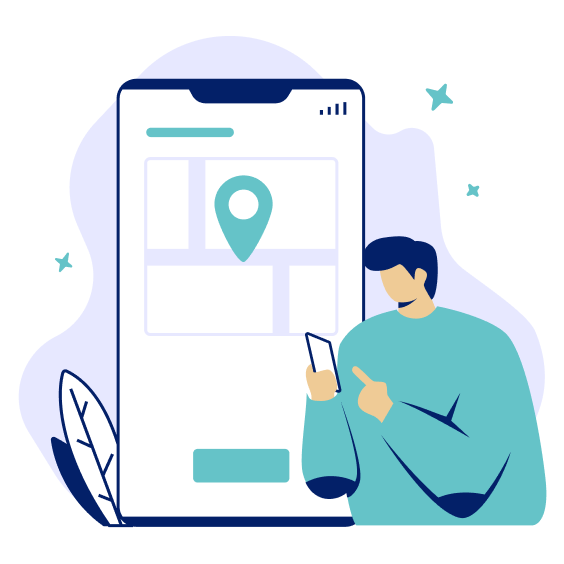
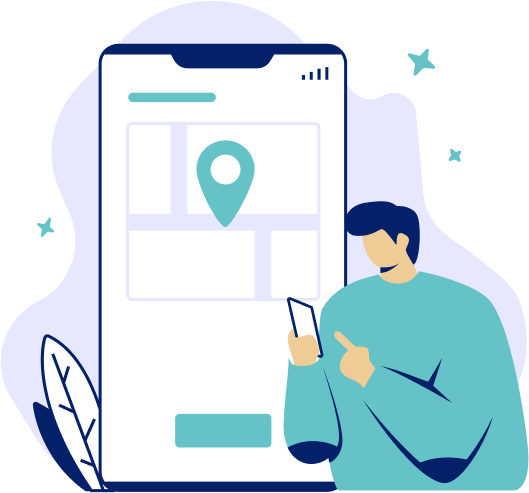
style: slicing login page

diff --git a/src/pages/Login.tsx b/src/pages/Login.tsx
@@ -1,0 +1,124 @@
+import imageLogin from '../assets/login.png';
+import NavLog from '../assets/loginreg.png';
+import { Input } from '../components/Input';
+import Layout from '../components/Layout';
+
+import { Link } from 'react-router-dom';
+import { useFormik } from 'formik';
+import * as Yup from 'yup';
+
+const schema = Yup.object().shape({
+  email: Yup.string().email('please enter a valid email').required('Required'),
+  password: Yup.string().required('Required'),
+});
+
+const Login = () => {
+  const { values, errors, handleBlur, handleChange, touched, handleSubmit } =
+    useFormik({
+      initialValues: {
+        email: '',
+        password: '',
+      },
+      validationSchema: schema,
+      onSubmit: (values) => {
+        console.log(values);
+      },
+    });
+
+  return (
+    <Layout
+      chose="section"
+      addClass="h-screen bg-gradient-to-br from-neutral to-primary flex justify-center items-center"
+    >
+      <div className="w-4/5 h-5/6 bg-base-100 rounded-xl flex ">
+        <form
+          onSubmit={handleSubmit}
+          className="w-2/6 h-full flex flex-col justify-center p-10 gap-2"
+        >
+          <p className="text-4xl font-semibold">Log in.</p>
+          <p className="font-light text-sm">
+            Log in with our data that your entered during registration
+          </p>
+          <div className="w-full">
+            <label
+              htmlFor="email"
+              className="label"
+            >
+              <p className="label-text">Email: </p>
+            </label>
+            <Input
+              id="email"
+              name="email"
+              label="type your email here"
+              type="email"
+              value={values.email}
+              onChange={handleChange}
+              onBlur={handleBlur}
+              error={errors.email}
+              touch={touched.email}
+            />
+          </div>
+          <div className="w-full">
+            <label
+              htmlFor="password"
+              className="label"
+            >
+              <p className="label-text">Password: </p>
+            </label>
+            <Input
+              id="password"
+              name="password"
+              label="type your password here"
+              type="password"
+              value={values.password}
+              onChange={handleChange}
+              onBlur={handleBlur}
+              error={errors.password}
+              touch={touched.password}
+            />
+          </div>
+
+          <button
+            id="login"
+            className="btn btn-primary mt-3"
+            type="submit"
+          >
+            LOGIN
+          </button>
+          <p className="text-sm">
+            Don't have an account?{' '}
+            <Link
+              className="font-medium"
+              to={'/register'}
+            >
+              Register here
+            </Link>
+          </p>
+        </form>
+        <div className="w-4/6 h-full bg-base-300 p-10 rounded-r-xl flex flex-col justify-between items-center">
+          <div className="h-5/6">
+            <div className=" h-1/6 text-center w-full">
+              <p className="text-xl font-light">Nice To Meet You Again</p>
+              <p className="text-4xl font-semibold">WELCOME BACK!</p>
+            </div>
+            <div className="h-5/6 w-full flex justify-center">
+              <img
+                className="h-full"
+                src={imageLogin}
+                alt=""
+              />
+            </div>
+          </div>
+
+          <img
+            className="h-7"
+            src={NavLog}
+            alt=""
+          />
+        </div>
+      </div>
+    </Layout>
+  );
+};
+
+export default Login;

diff --git a/src/pages/NotFound.tsx b/src/pages/NotFound.tsx
@@ -1,0 +1,39 @@
+import Layout from '../components/Layout';
+import Kabel from '../assets/notFound.png';
+import { Link } from 'react-router-dom';
+
+const NotFound = () => {
+  return (
+    <Layout
+      chose="section"
+      addClass="h-screen bg-gradient-to-br from-neutral to-primary flex justify-center items-center"
+    >
+      <div className="w-4/5 h-5/6 bg-base-100 rounded-xl flex px-10">
+        <div className="h-full w-2/6">
+          <img
+            className="h-full"
+            src={Kabel}
+            alt=""
+          />
+        </div>
+        <div className="h-full w-4/6 flex flex-col justify-center items-center gap-4">
+          <p className="font-bold text-9xl">404</p>
+          <p className="font-medium text-3xl tracking-wide">Page Not Found</p>
+          <p className="text-lg text-center">
+            we{'’'}re sorry. the page you requested could no be found Please go
+            back to the home page
+          </p>
+          <Link
+            to={'/'}
+            className="btn btn-primary mt-3 w-32"
+            type="btn"
+          >
+            GO HOME
+          </Link>
+        </div>
+      </div>
+    </Layout>
+  );
+};
+
+export default NotFound;

diff --git a/src/components/Input.tsx b/src/components/Input.tsx
@@ -1,0 +1,49 @@
+import React, { FC } from 'react';
+
+interface FormikProps {
+  id: string;
+  label?: string;
+  name?: string;
+  value?: string | number;
+  error?: string | boolean | undefined;
+  touch?: string | boolean | undefined;
+}
+
+interface InputProps extends FormikProps {
+  type?: string;
+  onChange?: React.ChangeEventHandler<HTMLInputElement>;
+  onBlur?: React.FocusEventHandler<HTMLInputElement>;
+}
+
+export const Input: FC<InputProps> = ({
+  id,
+  label,
+  name,
+  type,
+  value,
+  error,
+  onChange,
+  onBlur,
+  touch,
+}) => {
+  return (
+    <div className="h-16 w-full">
+      <input
+        className={`input w-full bg-base-200 ${
+          error && touch ? 'input-error' : ''
+        }`}
+        id={id}
+        type={type}
+        name={name}
+        value={value}
+        onChange={onChange}
+        placeholder={label}
+        onBlur={onBlur}
+      />
+
+      {error && touch && (
+        <span className="text-sm text-error label-text-alt">{error}</span>
+      )}
+    </div>
+  );
+};

diff --git a/src/routes/index.tsx b/src/routes/index.tsx
@@ -2,6 +2,8 @@ import { BrowserRouter, Routes, Route } from 'react-router-dom';
 
 import HomePage from '../pages/HomePage';
 import ScrollToTop from '../components/ScrollToTop';
+import Login from '../pages/Login';
+import NotFound from '../pages/NotFound';
 
 const Router = () => {
   return (
@@ -11,6 +13,14 @@ const Router = () => {
         <Route
           path="/"
           element={<HomePage />}
+        />
+        <Route
+          path="/login"
+          element={<Login />}
+        />
+        <Route
+          path="*"
+          element={<NotFound />}
         />
       </Routes>
     </BrowserRouter>
